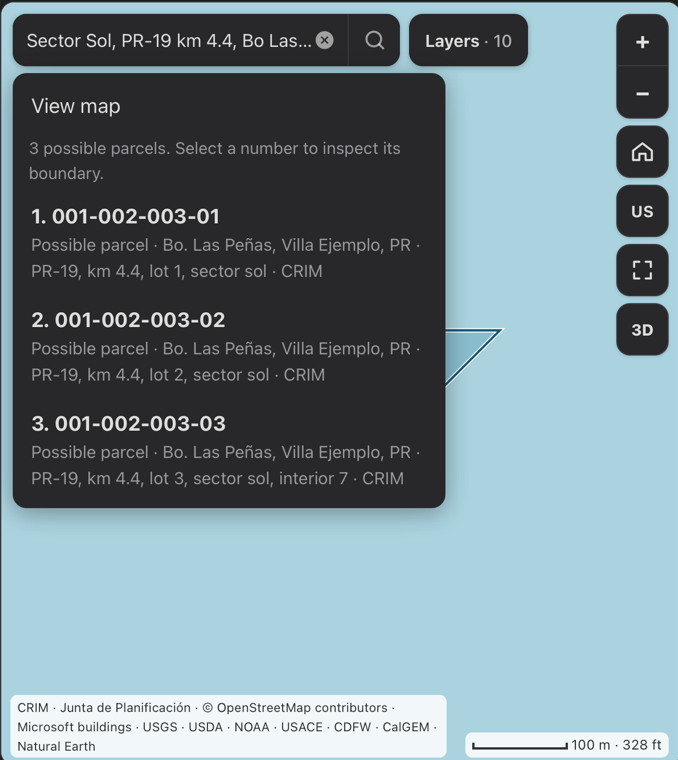
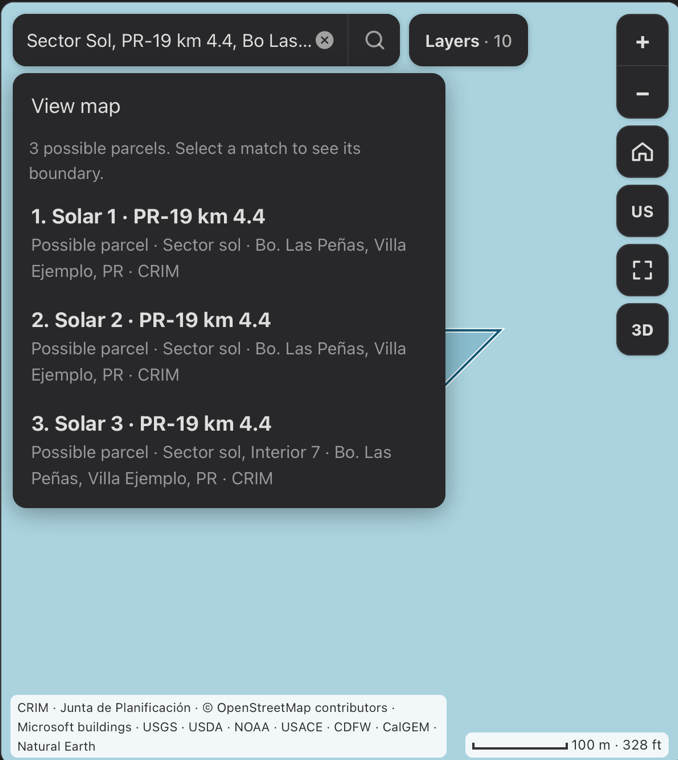
Show rural address details when comparing Puerto Rico map matches

diff --git a/web/map.js b/web/map.js
@@ -105,7 +105,7 @@ const MapView = (() => {
     <div class="mapgrid"><div class="mapwrap" id="mapwrap">
       <canvas id="mapc" tabindex="0" role="application" aria-label="Map. Arrow keys move, plus and minus zoom, Escape closes details. The list beside the map gives the same places as text."></canvas>
       <div class="map-top">
-        <form class="map-search" id="pf" role="search"><label class="sr" for="pq">Find an address, town, ZIP code or Puerto Rico catastro number</label><input id="pq" type="search" placeholder="Address, place, ZIP or catastro" autocomplete="off"><button aria-label="Search"><svg viewBox="0 0 24 24" aria-hidden="true"><circle cx="11" cy="11" r="7"/><path d="m20 20-4-4"/></svg></button></form>
+        <form class="map-search" id="pf" role="search"><label class="sr" for="pq">Find an address, town, ZIP code or place</label><input id="pq" type="search" placeholder="Find an address, town or ZIP" autocomplete="off"><button aria-label="Search"><svg viewBox="0 0 24 24" aria-hidden="true"><circle cx="11" cy="11" r="7"/><path d="m20 20-4-4"/></svg></button></form>
         <button class="map-layers-btn" id="layers-btn" aria-expanded="false" aria-controls="layers">Layers <b id="layer-count"></b></button>
       </div>
       <div class="map-pop" id="pres" hidden></div>
@@ -934,7 +934,7 @@ const MapView = (() => {
     }
     function list() {
       const items = [...st.parcels, ...other];
-      const header = total ? `${total} possible parcel${total === 1 ? '' : 's'}. ${st.parcels.length < total ? 'Showing ' + st.parcels.length + '. ' : ''}Select a number to inspect its boundary.` :
+      const header = total ? `${total} possible parcel${total === 1 ? '' : 's'}. ${st.parcels.length < total ? 'Showing ' + st.parcels.length + '. ' : ''}Select a match to see its boundary.` :
         `${items.length} match${items.length === 1 ? '' : 'es'}`;
       if (total && !expanded) {
         const shown = st.parcels.length < total ? ` · ${st.parcels.length} on map` : '';
@@ -957,12 +957,13 @@ const MapView = (() => {
         const r = await fetch('/api/places?' + query).then(reply => reply.json());
         if (!active()) return;
         if (!r.length && !more) {
-          const rural = /(?:^|[^a-z])(?:k\.?\s*m\.?s?|kil[oó]met(?:ros?|res?|ers?))(?=\W|\d|$)|\d[.,]\d+\s+(?:de la\s+)?(?:carr(?:etera)?|pr[- ])/i.test(q);
+          const rural = /(?:^|[^a-z])(?:k\.?\s*m\.?s?|kil[oó]met(?:ros?|res?|ers?))(?=\W|\d|$)|\d[.,]\d+\s+(?:de la\s+)?(?:carr(?:etera)?|pr[- ])/i.test(q)
+            || (/\b(?:pr|carr(?:etera)?|ctra|ruta)[.\s#-]*\d{1,4}\b/i.test(q) && /\b(?:barrio|bo|sector|sect|sec|solar|lote|lot|int|interior|municipio)\b/i.test(q));
           const catastro = /^(?:\s*(?:catastro|crim|n[uú]mero de catastro)|\s*(?:\d{11,14}|\d{3}-\d{3}-\d{3}-\d{2})(?:\b|$))/i.test(q);
           let message = 'No place by that name in the saved gazetteers. Try a town, county or 5-digit ZIP.';
           if (catastro || rural || looksLikeAddress(q)) {
             message = catastro ? 'Parcel number not found in the offline index. For the land boundary, try the 11-digit base number.' :
-              rural ? 'No matching parcel or road kilometer in the offline data. Check the route, kilometer and barrio.' :
+              rural ? 'No match for these directions in the offline map. Check the road, kilometer and barrio. You can also search for a nearby town or school.' :
                 'Address not found in your offline data. Check the house number and street.';
             if (IN_WINDOW) message += ' <a href="/ui/setup.html#manage">Add your state’s address search</a>.';
           }

diff --git a/mobile/ipad/Lastbook/API/PuertoRicoParcels.swift b/mobile/ipad/Lastbook/API/PuertoRicoParcels.swift
@@ -60,13 +60,18 @@ enum PuertoRicoParcels {
         }
         return keys.dropFirst(min(keys.count, max(0,offset))).prefix(limit).compactMap { base in
             guard let r = best[base], var item = outline(db,base) else { return nil }
-            let km = r["meters"]?.int.map { "km " + PuertoRicoModel.kilometer(Int($0)) } ?? "km unrecorded"
+            let km = r["meters"]?.int.map { PuertoRicoModel.kilometer(Int($0)) }
             let lot = r["lot"]?.text ?? "", sector = r["sector"]?.text ?? "", access = r["access"]?.text ?? ""
-            let parts = ["PR-\(a.route)", km, lot.isEmpty ? "" : "lot " + lot, sector.isEmpty ? "" : "sector " + sector,
-                         r["interior"]?.int == 1 ? ("interior " + access).trimmingCharacters(in: .whitespaces) : ""]
+            let road = "PR-\(a.route)" + (km.map { " km " + $0 } ?? "")
+            let qualifiers = [lot.isEmpty ? "" : "Solar " + lot.uppercased(), sector.isEmpty ? "" : "Sector " + sector,
+                              r["interior"]?.int == 1 ? ("Interior " + access).trimmingCharacters(in: .whitespaces) : ""]
+                .filter { !$0.isEmpty }
+            item["name"] = (qualifiers.first.map { $0 + " · " } ?? "") + road
             item["kind"] = "Possible parcel"
             item["parcelCount"] = keys.count
-            item["detail"] = (item["detail"] as? String ?? "") + " · " + parts.filter { !$0.isEmpty }.joined(separator: ", ") + " · " + (r["source"]?.text ?? "")
+            let detail = [qualifiers.dropFirst().joined(separator: ", "), item["detail"] as? String ?? "",
+                          km == nil ? "km unrecorded" : "", r["source"]?.text ?? ""]
+            item["detail"] = detail.filter { !$0.isEmpty }.joined(separator: " · ")
             return item
         }
     }

diff --git a/app/tests/test_pr_parcels.py b/app/tests/test_pr_parcels.py
@@ -58,6 +58,8 @@ class ParcelSearch(unittest.TestCase):
         self.assertEqual((len(first),len(second)),(20,4))
         self.assertEqual(len({r['parcelNumber'] for r in first+second}),24)
         self.assertTrue(all(r['kind']=='Possible parcel' and r['parcelCount']==24 and r['rings'] for r in first+second))
+        self.assertEqual(first[0]['name'], 'Solar 1 · PR-19 km 4.4')
+        self.assertEqual(second[-1]['name'], 'Solar 24 · PR-19')
         self.assertIn('km unrecorded',second[-1]['detail'])
         self.assertEqual(self.search(query,100),[])
         self.assertEqual(self.search(query.replace('Las Peñas','Otro')),[])
@@ -69,10 +71,21 @@ class ParcelSearch(unittest.TestCase):
             hit, = self.search(q)
             self.assertEqual(hit['parcelNumber'],'001-002-003-03')
             self.assertEqual(hit['kind'],'Possible parcel')
-            for part in ('lot 3','interior 7','sector sol'):
-                self.assertIn(part,hit['detail'])
+            self.assertEqual(hit['name'], 'Solar 3 · PR-19 km 4.4')
+            for part in ('Interior 7','Sector sol','Bo. Las Peñas','Villa Ejemplo'):
+                self.assertIn(part, hit['detail'])
         for q in (query.replace('Sol,','Luna,'),query.replace('Int. 7','Int. 8'),query.replace('Lote 3','Lot 99')):
             self.assertEqual(self.search(q),[])
+
+    def test_directions_display_when_no_solar_is_recorded(self):
+        with sqlite3.connect(self.root / 'derived/geo/addresses/PR.sqlite') as db:
+            db.execute("UPDATE pr_parcel_address SET lot='' WHERE route=19")
+        rows = self.search('PR-19 km 4.4, Bo. Las Peñas, Villa Ejemplo')
+        by_parcel = {r['parcelNumber']: r for r in rows}
+        self.assertEqual(by_parcel['001-002-003-01']['name'], 'Sector sol · PR-19 km 4.4')
+        self.assertEqual(by_parcel['001-002-003-04']['name'], 'Interior · PR-19 km 4.4')
+        self.assertEqual(by_parcel['001-002-003-05']['name'], 'PR-19 km 4.4')
+        self.assertTrue(all(r['parcelNumber'] not in r['name'] and r['parcelNumber'] not in r['detail'] for r in rows))
 
     @unittest.skipUnless(os.environ.get('LASTBOOK_TEST_PARCEL_MODEL') == '1', 'opt-in test with the pinned local Gemma')
     def test_real_gemma_parcel_directions(self):

diff --git a/engine/pr_parcels.py b/engine/pr_parcels.py
@@ -82,10 +82,13 @@ def candidates(db, address, offset=0, limit=PAGE):
     result = []
     for base, (meters, lot, sector, inside, access, source) in ordered[offset:offset + limit]:
         item = outline(db, base)
-        info = [f'PR-{address.route}', f'km {meters / 1000:g}' if meters is not None else 'km unrecorded',
-                'lot ' + lot if lot else '', 'sector ' + sector if sector else '',
-                ('interior ' + access).strip() if inside else '']
-        item.update(kind='Possible parcel', parcelCount=len(ordered),
-                    detail=item['detail'] + ' · ' + ', '.join(v for v in info if v) + ' · ' + source)
+        road = f'PR-{address.route}' + (f' km {meters / 1000:g}' if meters is not None else '')
+        qualifiers = [part for part in (f'Solar {lot.upper()}' if lot else '',
+                                        f'Sector {sector}' if sector else '',
+                                        ('Interior ' + access).rstrip() if inside else '') if part]
+        name = f'{qualifiers[0]} · {road}' if qualifiers else road
+        detail = [', '.join(qualifiers[1:]), item['detail'], 'km unrecorded' if meters is None else '', source]
+        item.update(name=name, kind='Possible parcel', parcelCount=len(ordered),
+                    detail=' · '.join(part for part in detail if part))
         result.append(item)
     return result

diff --git a/docs/MAPS.md b/docs/MAPS.md
@@ -110,18 +110,19 @@ same on-device index. Gemma keeps the supplied solar or lote, sector and interio
 It can read a parcel address that omits the kilometer. A result from this path displays the interpretation. A busy, disabled or absent model leaves
 the ordinary reader available. A map request stops waiting after 60 seconds.
 
-With the parcel index installed, enter a **número de catastro** in the same search box to see the land
-boundary. Enter the 11-digit base number with or without its hyphens, or the full number with a
-three-digit suffix. A recorded nonzero account suffix opens the shared land boundary. An unknown
-account suffix returns no result. Leading zeros count.
-
-For a typed road address, the map numbers and outlines the possible parcels. Select a number
-to inspect it, or open **Show matches** for the list. **All matches** returns to the group. **Show more parcels** adds the
-next page. A candidate uses the same recorded lot, sector and interior details as the query.
+When the directions match land records, the map outlines the possible parcels and numbers the pins.
+Open **Show matches** to compare them. Each row shows the recorded road and kilometer, when known.
+A solar, sector or interior detail helps distinguish parcels on the same road. The barrio and municipio
+appear underneath. Select a pin or a row to inspect the boundary. **All matches** returns to the group.
+**Show more parcels** adds the next page. Each candidate satisfies the supplied lot, sector and interior details.
 Even a single candidate is labeled **Possible parcel**. When a source lists the road and area
 but omits the requested kilometer, the result says **km unrecorded**. The parcel marker lies
 within the recorded land boundary. Its position does not identify an entrance or a building.
 These screenshots use invented parcels. [Numbered boundaries](pr-parcels-map.png) · [Match list](pr-parcels-list.png)
+
+If a property document gives a **número de catastro**, pasting it into the same box opens the recorded
+land boundary directly. The reader accepts an 11-digit land number with or without hyphens and a full
+account number with a recorded suffix. Leading zeros count.
 
 To build a parcel-enabled Puerto Rico pack, use Python 3.11 or newer in a separate build environment on a computer with internet access. The command fetches the islandwide public inputs directly from their publishers and writes `Lastbook-Addresses-PR.zip`, `PR.sqlite` and `PR.coverage.json` in the chosen directory. Reusing the directory reuses its source files. Using a new directory fetches a new snapshot.
 
@@ -142,7 +143,11 @@ The November 2026 build found 1,292,468 distinct land numbers. The two permit la
 [SIP permits](https://sigejp.pr.gov/server/rest/services/MIPR/Permisos/MapServer/8) ·
 [ARPE permits](https://sigejp.pr.gov/server/rest/services/MIPR/Permisos/MapServer/16)
 
-The Planning Board's parcel layer has land numbers and boundaries. CRIM's *dirección física* is a separate source. The Catastro Digital guide describes individual lookups. An islandwide physical-address export with published redistribution terms has yet to be identified. A CRIM-supplied CSV can extend local coverage. Pass `--crim-addresses file.csv` once per file to the build command. The CSV may use `número de catastro,dirección física,municipio` or `catastro,address,municipio`. The builder reads those three fields and keeps source counts separate. [Catastro Digital guide](https://catastro.crimpr.net/cdprpc/help/CDPRPC_ManualUsuario_20200708.pdf) · [CRIM contact](https://portal.crim360.com/crimpr/CMS/13.html)
+The public build uses the land number to connect the address on a permit to its mapped boundary.
+It works with those public sources alone. If a builder already has a CRIM physical-address CSV, it can
+supply extra directions with `--crim-addresses file.csv`. Accepted headers include
+`número de catastro,dirección física,municipio` and `catastro,address,municipio`. The builder reads
+those three fields and reports the additional coverage separately.
 
 For a build from existing inputs, run `python tools/build_pr_addresses.py puerto-rico.osm.pbf municipios.geojson derived/pr-addresses --rural derived/pr-rural-inputs --parcels derived/pr-parcel-inputs`. Omit `--parcels` for the earlier road and school index. The OSM and Census inputs are the [Puerto Rico PBF](https://download.geofabrik.de/north-america/us/puerto-rico.html) and [municipio boundaries](https://tigerweb.geo.census.gov/arcgis/rest/services/TIGERweb/State_County/MapServer/1/query?where=STATE%3D%2772%27&outFields=NAME%2CGEOID&outSR=4326&geometryPrecision=5&f=geojson).
 

diff --git a/docs/pr-parcel-coverage.md b/docs/pr-parcel-coverage.md
@@ -1,4 +1,4 @@
-# Puerto Rico parcel search by municipio
+# Puerto Rico rural address search by municipio
 
 The November 17, 2026 build found **62,164 distinct parcels with a searchable numbered-road address** in Planning Board permits. All 78 municipios have matches. The CRIM map supplied boundaries for **1,292,468 distinct land numbers**. Thirteen numbers occur in two municipios. Each appears in both boundary counts below. The builder skips those numbers when attaching addresses.
 
